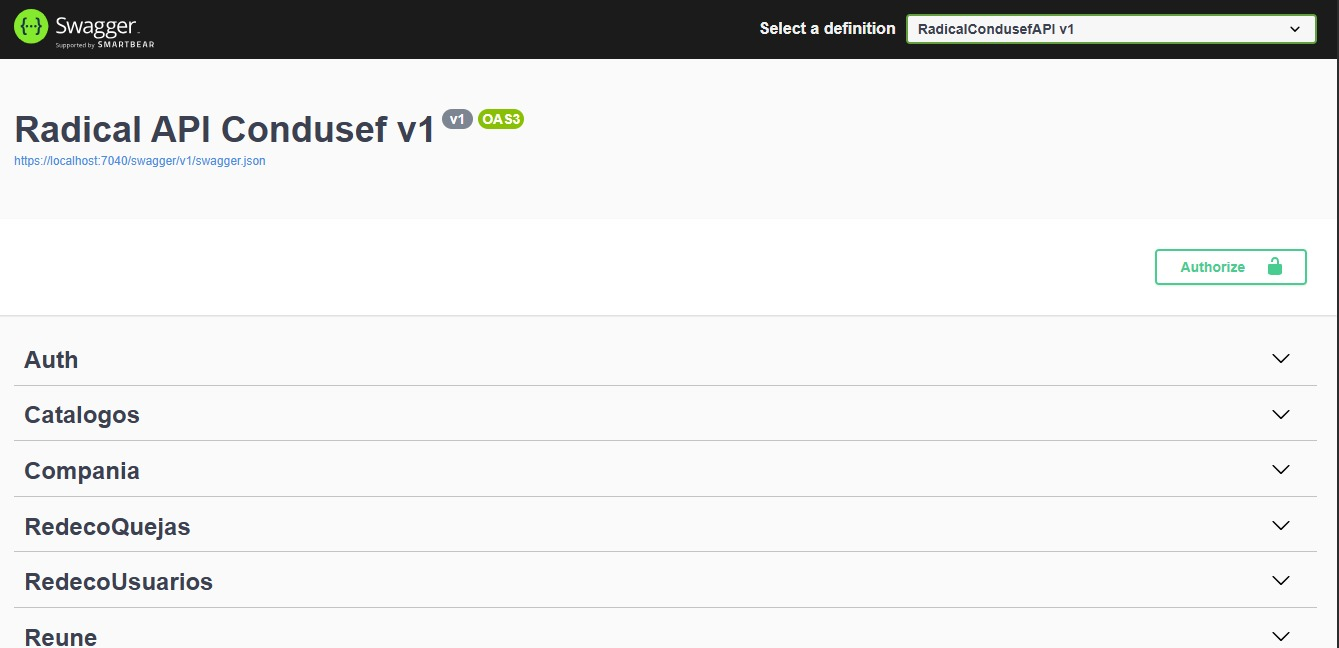
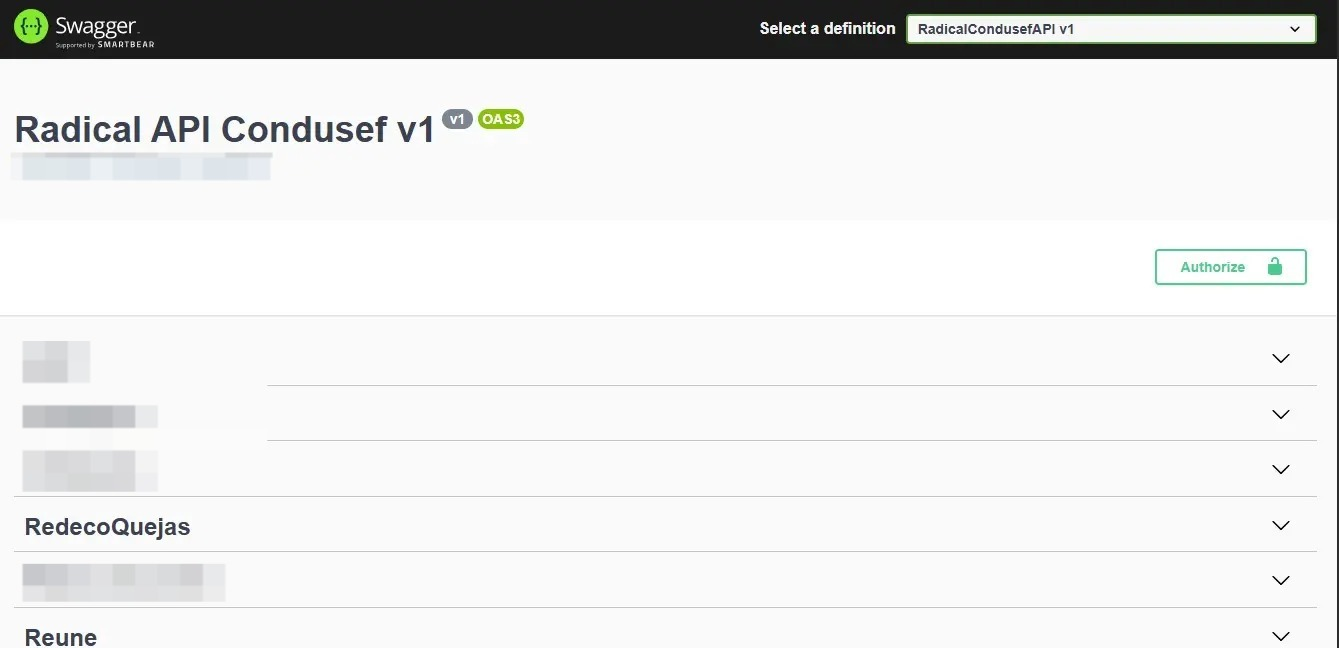
fix: se agregaron correciones a los estilos de la pagina

diff --git a/src/components/section-components/experiencia-components/choose-icon-function.tsx b/src/components/section-components/experiencia-components/choose-icon-function.tsx
@@ -22,28 +22,50 @@ import { TbBrandCSharp } from "react-icons/tb";
 import { DiMsqlServer } from "react-icons/di";
 import { TechOptions } from "@/types/sobre-mi-types/card-types";
 
-const iconMap: Record<TechOptions, React.ReactNode> = {
-  Javascript: <SiJavascript className="text-yellow-400 w-6 h-6" />,
-  HTML: <SiHtml5 className="text-orange-400 w-6 h-6" />,
-  CSS: <SiCss3 className="text-blue-400 w-6 h-6" />,
-  Angular: <SiAngular className="text-red-400 w-6 h-6" />,
-  Typescript: <SiTypescript className="text-blue-500 w-6 h-6" />,
-  NodeJS: <SiNodedotjs className="text-green-500 w-6 h-6" />,
-  NextJS: <SiNextdotjs className="dark:text-white w-6 h-6" />,
-  React: <SiReact className="text-blue-500 w-6 h-6" />,
-  ".NET": <SiDotnet className="text-purple-500 w-6 h-6" />,
-  MSQL: <DiMsqlServer className="text-orange-500 w-6 h-6" />,
-  Swagger: <SiSwagger className="text-green-500 w-6 h-6" />,
-  Tailwind: <SiTailwindcss className="text-blue-500 w-6 h-6" />,
-  MySQL: <SiMysql className="text-blue-300 w-6 h-6" />,
-  Express: <SiExpress className="text-green-500 w-6 h-6" />,
-  Github: <SiGithub className="dark:text-white w-6 h-6" />,
-  "C#": <TbBrandCSharp className="text-purple-500 w-6 h-6" />,
-  Gitlab: <SiGitlab className="text-orange-500 w-6 h-6" />,
-  Postman: <SiPostman className="text-orange-500 w-6 h-6" />,
-  Arduino: <SiArduino className="text-blue-500 dark:text-blue-300 w-6 h-6" />,
-};
+type size = "sm" | "md" | "lg";
 
-export default function ChooseIcon({ name }: { name: TechOptions }) {
+export default function ChooseIcon({
+  name,
+  size,
+}: {
+  name: TechOptions;
+  size?: size;
+}) {
+  const sizeMap = {
+    sm: "w-6 h-6 md:w-8 md:h-8",
+    md: "w-10 h-10 md:w-12 md:h-12",
+    lg: "w-12 h-12 md:w-16 md:h-16",
+  } as const;
+
+  let classSize: string = `${size ? sizeMap[size] : sizeMap["sm"]}`;
+
+  const iconMap: Record<TechOptions, React.ReactNode> = {
+    Javascript: <SiJavascript className={`${classSize} text-yellow-400`} />,
+    HTML: <SiHtml5 className={`${classSize} text-orange-400`} />,
+    CSS: <SiCss3 className={`${classSize} text-blue-400`} />,
+    Angular: <SiAngular className={`${classSize} text-red-500`} />,
+    Typescript: <SiTypescript className={`${classSize} text-blue-500`} />,
+    NodeJS: <SiNodedotjs className={`${classSize} text-green-500`} />,
+    NextJS: (
+      <SiNextdotjs className={`${classSize} text-black dark:text-white`} />
+    ),
+    React: <SiReact className={`${classSize} text-cyan-400`} />,
+    ".NET": <SiDotnet className={`${classSize} text-purple-500`} />,
+    MSQL: <DiMsqlServer className={`${classSize} text-red-500`} />,
+    Swagger: <SiSwagger className={`${classSize} text-green-500`} />,
+    Tailwind: <SiTailwindcss className={`${classSize} text-sky-400`} />,
+    MySQL: <SiMysql className={`${classSize} text-blue-300`} />,
+    Express: (
+      <SiExpress className={`${classSize} text-gray-300 dark:text-white`} />
+    ),
+    Github: <SiGithub className={`${classSize} text-black dark:text-white`} />,
+    "C#": <TbBrandCSharp className={`${classSize} text-purple-500`} />,
+    Gitlab: <SiGitlab className={`${classSize} text-orange-500`} />,
+    Postman: <SiPostman className={`${classSize} text-orange-400`} />,
+    Arduino: (
+      <SiArduino className={`${classSize} text-blue-500 dark:text-blue-300`} />
+    ),
+  };
+
   return iconMap[name] ?? <p>{name}</p>;
 }

diff --git a/src/components/layout-components/header-components/sheet-button.tsx b/src/components/layout-components/header-components/sheet-button.tsx
@@ -3,6 +3,7 @@ import {
   SheetContent,
   SheetHeader,
   SheetTitle,
+  SheetDescription,
   SheetTrigger,
 } from "@/components/ui/sheet";
 import { Button } from "@/components/ui/button";
@@ -14,8 +15,10 @@ import { ScrollLink } from "@/components/ui/scroll-links";
 
 export default function SheetButton() {
   const pathname = usePathname();
-  const sectionIds = sections.map((seccion) => seccion.id);
-  const activeSection = pathname === "/" ? useActiveSection(sectionIds) : null;
+  const sectionIds = pathname === "/" ? sections.map((s) => s.id) : [];
+
+  const activeSection = useActiveSection(sectionIds);
+
   return (
     <Sheet>
       <SheetTrigger asChild>
@@ -26,6 +29,9 @@ export default function SheetButton() {
       <SheetContent>
         <SheetHeader>
           <SheetTitle className="text-2xl">Navegación</SheetTitle>
+          <SheetDescription className="sr-only">
+            Menú lateral con enlaces de navegación del portafolio.
+          </SheetDescription>
         </SheetHeader>
         <ul className="space-y-3 px-4">
           {sections.map((section) => (
@@ -33,8 +39,8 @@ export default function SheetButton() {
               <ScrollLink
                 href={section.link}
                 className={`transition duration-300 ease-in-out hover:text-emerald-600 hover:dark:text-emerald-400 hover:scale-105 hover:underline text-lg ${
-                  activeSection === section.id
-                    ? "text-emerald-600 dark:text-emerald-400 font-bold underline "
+                  pathname === "/" && activeSection === section.id
+                    ? "text-emerald-600 dark:text-emerald-400 font-bold underline"
                     : ""
                 }`}
               >

diff --git a/src/app/proyectos/personales/arcade-tester/page.tsx b/src/app/proyectos/personales/arcade-tester/page.tsx
@@ -7,7 +7,7 @@ import GithubButton from "@/components/section-components/github-button";
 import ImagenZoom from "@/components/image-zoom";
 export default function ArcadeTesterDetail() {
   const rutaImagenes: string = "/assets/img-proyectos/personales/arcade/";
-  const arrTech: TechOptions[] = [".NET"];
+  const arrTech: TechOptions[] = [".NET", "Arduino"];
   const arrImagenes: string[] = [
     rutaImagenes + "arcade-layout.png",
     rutaImagenes + "arcade-diagrama.png",
@@ -39,8 +39,10 @@ export default function ArcadeTesterDetail() {
           <Image
             src={rutaImagenes + "arcade-tester.gif"}
             alt="Arcade Tester en acción - detección de inputs"
-            width={400}
-            height={100}
+            fill
+            sizes="(max-width: 768px) 100vw, 800px"
+            priority
+            unoptimized
             className="object-cover rounded-xl"
           />
         </div>
@@ -141,11 +143,11 @@ export default function ArcadeTesterDetail() {
         </h3>
         <div className="flex flex-wrap gap-6 justify-start">
           {arrImagenes.map((imagen, index) => (
-            <div key={index} className="flex w-lg items-stretch">
+            <div key={index} className="relative w-80 h-64">
               <ImagenZoom
                 src={imagen}
                 alt={`Arcade-Tester-Captura ${index + 1}`}
-              ></ImagenZoom>
+              />
             </div>
           ))}
         </div>

diff --git a/src/components/section-components/sobre-mi-components/mi-stack.tsx b/src/components/section-components/sobre-mi-components/mi-stack.tsx
@@ -1,24 +1,25 @@
-import {
-  SiTypescript,
-  SiJavascript,
-  SiNodedotjs,
-  SiReact,
-  SiNextdotjs,
-  SiDotnet,
-} from "react-icons/si";
-import { DiMsqlServer } from "react-icons/di";
+import ChooseIcon from "../experiencia-components/choose-icon-function";
+import { TechOptions } from "@/types/sobre-mi-types/card-types";
 export default function MiStack() {
+  const stack: TechOptions[] = [
+    "Javascript",
+    "Typescript",
+    "NodeJS",
+    "NextJS",
+    "React",
+    ".NET",
+    "MSQL",
+  ];
+
   return (
-    <div className="border rounded-2xl p-2 shadow-md bg-accent dark:border-zinc-600 border-zinc-300 md:max-w-min">
+    <div className="border rounded-2xl p-2 shadow-md dark:bg-accent dark:border-zinc-600 border-zinc-300 md:max-w-min">
       <p className="text-md md:text-xl font-bold mb-1">Mi stack </p>
       <div className="flex gap-2">
-        <SiJavascript className="text-yellow-400 w-8 h-8" />
-        <SiTypescript className="text-blue-500 w-8 h-8" />
-        <SiNodedotjs className="text-green-500 w-8 h-8" />
-        <SiNextdotjs className="dark:text-white w-8 h-8" />
-        <SiReact className="text-blue-500 w-8 h-8" />
-        <SiDotnet className="text-purple-500 w-8 h-8" />
-        <DiMsqlServer className="text-orange-500 w-8 h-8" />
+        {stack.map((tech, index) => (
+          <div key={index}>
+            <ChooseIcon name={tech}></ChooseIcon>
+          </div>
+        ))}
       </div>
     </div>
   );

diff --git a/src/app/proyectos/personales/street-fighter-api/page.tsx b/src/app/proyectos/personales/street-fighter-api/page.tsx
@@ -36,13 +36,14 @@ export default function StreetFighterDetail() {
       </p>
 
       <div className="flex justify-center">
-        <div className="relative h-80 mb-10 rounded-xl overflow-hidden shadow-lg flex justify-center items-center">
+        <div className="relative h-80 w-[400px] mb-10 rounded-xl overflow-hidden shadow-lg flex justify-center items-center">
           <Image
             src={rutaImagenes + "sf-logo.png"}
             alt="Street Fighter API - Logo"
-            width={400}
-            height={100}
-            className="object-cover"
+            fill
+            priority
+            sizes="(max-width: 768px) 100vw, 400px"
+            className="object-contain rounded-xl"
           />
         </div>
       </div>
@@ -139,11 +140,11 @@ export default function StreetFighterDetail() {
         </h3>
         <div className="flex flex-wrap gap-6 justify-start">
           {arrImagenes.map((imagen, index) => (
-            <div key={index} className="flex w-lg items-stretch">
+            <div key={index} className="relative w-80 h-64">
               <ImagenZoom
                 src={imagen}
                 alt={`Arcade-Tester-Captura ${index + 1}`}
-              ></ImagenZoom>
+              />
             </div>
           ))}
         </div>

diff --git a/src/components/section-components/educacion-components/education-obj.ts b/src/components/section-components/educacion-components/education-obj.ts
@@ -28,7 +28,7 @@ export const educationObj: EducationCardType[] = [
       "Curso que realice durante mi estancia en Radical Software donde aprendi los principios SOLID para aplicarlos en los proyectos donde trabaje.",
     stDate: "Diciembre 2024",
     endDate: "Enero 2025",
-    img: "/assets/img-experiencia/radical_logo_solo.png",
+    img: "/assets/img-experiencia/radical-logo-s.svg",
   },
 ];
 
@@ -41,7 +41,7 @@ export const titulosObj: EducationCardType[] = [
       "desarrollo y arquitectura de software, además de un poco de electrónica con Arduino. \nTítulo en trámite.",
     stDate: "Agosto 2021",
     endDate: "Mayo 2025",
-    img: "https://ues.mx/Docs/conocenos/identidad_UES/LogoUesVinoFondoTransparente.png?0.13975010473019678",
+    img: "/assets/img-portafolio/ues-logo.png",
   },
 ];
 
@@ -53,7 +53,7 @@ export const cursosObj: EducationCardType[] = [
       "Curso que realice durante mi estancia en Radical Software donde aprendi los principios SOLID para aplicarlos en los proyectos donde trabaje.",
     stDate: "Diciembre 2024",
     endDate: "Enero 2025",
-    img: "/assets/img-experiencia/radical_logo_solo.png",
+    img: "/assets/img-experiencia/radical-logo-s.svg",
   },
 ];
 

diff --git a/src/components/section-components/proyectos-components/proyectos-obj.ts b/src/components/section-components/proyectos-components/proyectos-obj.ts
@@ -32,7 +32,7 @@ export const proyectosPro: CardProyectoTypes[] = [
     status: "Terminado",
     description:
       "Proyecto realizado durante mi estancia en Radical Software, consistió en una refactorización de una API que actúa como intermediario con la API del gobierno encargada de Redeco y Reune.",
-    img: "/assets/img-proyectos/profesionales/api-condusef-refactor/api-condusef.jpg",
+    img: "/assets/img-proyectos/profesionales/condusef-logo.png",
     techStack: [".NET", "MSQL", "Swagger"],
     detailPage: "/proyectos/profesionales/api-condusef-refactor/",
   },
@@ -41,7 +41,7 @@ export const proyectosPro: CardProyectoTypes[] = [
     status: "Terminado",
     description:
       "Proyecto de frontend creado para consumir la API Condusef previamente refactorizada, migrando el proyecto de Blazor a una interfaz moderna hecha con Next.js y React.",
-    img: "/assets/img-proyectos/profesionales/api-condusef-ui/api-condusef-ui.jpg",
+    img: "/assets/img-proyectos/profesionales/condusef-logo.png",
     techStack: ["React", "NextJS", "Typescript", "NodeJS"],
     detailPage: "/proyectos/profesionales/api-condusef-ui/",
   },

diff --git a/src/app/proyectos/profesionales/api-condusef-ui/page.tsx b/src/app/proyectos/profesionales/api-condusef-ui/page.tsx
@@ -9,14 +9,14 @@ export default function ApiCondusefUi() {
   const arrTech: TechOptions[] = ["React", "NextJS", "Typescript", "NodeJS"];
   const arrImagenes: string[] = [
     rutaImagenes + "api-condusef-ui-3.jpg",
-    rutaImagenes + "api-condusef-ui-4.jpg",
+    rutaImagenes + "api-condusef-ui-2.jpg",
   ];
 
   return (
     <main className="max-w-6xl mx-auto p-6">
       <h1 className="text-4xl font-bold mb-4">API CONDUSEF - Nueva UI</h1>
 
-      <div className="flex gap-2 items-start justify-between">
+      <div className="flex gap-2 items-start justify-between mb-6">
         <LabelTerminado />
         <p>
           <strong className="text-sm dark:text-zinc-400">
@@ -133,7 +133,7 @@ export default function ApiCondusefUi() {
         </h3>
         <div className="flex flex-wrap gap-6 justify-start">
           {arrImagenes.map((imagen, index) => (
-            <div key={index} className="flex w-lg items-stretch">
+            <div key={index} className="relative w-80 h-64">
               <ImagenZoom
                 src={imagen}
                 alt={`Arcade-Tester-Captura ${index + 1}`}

diff --git a/src/app/proyectos/profesionales/api-condusef-refactor/page.tsx b/src/app/proyectos/profesionales/api-condusef-refactor/page.tsx
@@ -6,10 +6,10 @@ import ImagenZoom from "@/components/image-zoom";
 export default function ApiCondusefRefactor() {
   const rutaImagenes: string =
     "/assets/img-proyectos/profesionales/api-condusef-refactor/";
-  const arrTech: TechOptions[] = [".NET", "Swagger", "MSQL"];
+  const arrTech: TechOptions[] = [".NET", "Swagger", "MSQL", "Postman"];
   const arrImagenes: string[] = [
     rutaImagenes + "api-condusef.jpg",
-    "/assets/img-proyectos/profesionales/api-condusef-ui/api-condusef-ui-4.jpg",
+    rutaImagenes + "api-condusef-ui-2.jpg",
   ];
 
   return (
@@ -142,7 +142,7 @@ export default function ApiCondusefRefactor() {
         </h3>
         <div className="flex flex-wrap gap-6 justify-start">
           {arrImagenes.map((imagen, index) => (
-            <div key={index} className="flex w-lg items-stretch">
+            <div key={index} className="relative w-80 h-64">
               <ImagenZoom
                 src={imagen}
                 alt={`Arcade-Tester-Captura ${index + 1}`}

diff --git a/src/components/section-components/experiencia-components/card-experiencia2.tsx b/src/components/section-components/experiencia-components/card-experiencia2.tsx
@@ -10,14 +10,17 @@ export default function CardExperiencia2({
   return (
     <div className="grid grid-cols-1 md:grid-cols-3 gap-4 rounded-xl p-4 shadow-md border dark:border-zinc-700">
       <div className="col-span-1 flex items-center justify-center">
-        <Image
-          src={CardProps.img}
-          alt={`imagen ${CardProps.title}`}
-          width={100}
-          height={100}
-          className="md:w-xl h-auto rounded-lg object-cover"
-        />
+        <div className="relative w-40 h-20 md:w-70 md:h-60 flex items-center justify-center">
+          <Image
+            src={CardProps.img}
+            alt={`imagen ${CardProps.title}`}
+            fill
+            className="object-contain p-2"
+            sizes="(max-width: 768px) 96px, 160px"
+          />
+        </div>
       </div>
+
       <div className="col-span-2 flex flex-col justify-around md:gap-4">
         <div className="mb-2">
           <div className="md:flex gap-2 items-center md:justify-between">

diff --git a/src/components/section-components/experiencia-components/experiencia-main.tsx b/src/components/section-components/experiencia-components/experiencia-main.tsx
@@ -10,13 +10,6 @@ export default function Experiencia() {
     >
       <div className="flex flex-col gap-4 max-w-6xl w-full px-4">
         <h2 className="text-4xl font-bold text-start mb-2">Experiencia</h2>
-        <div className="flex flex-col md:grid md:grid-cols-1 gap-2 md:gap-6">
-          {experienciaCards.map((experiencia, index) => (
-            <div className="hidden" key={index}>
-              <CardExperiencia2 CardProps={experiencia} />
-            </div>
-          ))}
-        </div>
         <div className="">
           <TimelineContainer
             experienciaInfo={experienciaCards}

diff --git a/src/components/image-zoom.tsx b/src/components/image-zoom.tsx
@@ -11,9 +11,9 @@ export default function ImagenZoom({ src, alt }: { src: string; alt: string }) {
       <Image
         src={src}
         alt={alt}
-        width={400}
-        height={400}
-        className="cursor-pointer rounded-lg hover:opacity-80 transition h-auto w-auto"
+        fill
+        sizes="(max-width: 768px) 100vw, 256px"
+        className="object-cover cursor-pointer rounded-lg hover:opacity-80 transition"
         onClick={() => setOpen(true)}
       />
 
